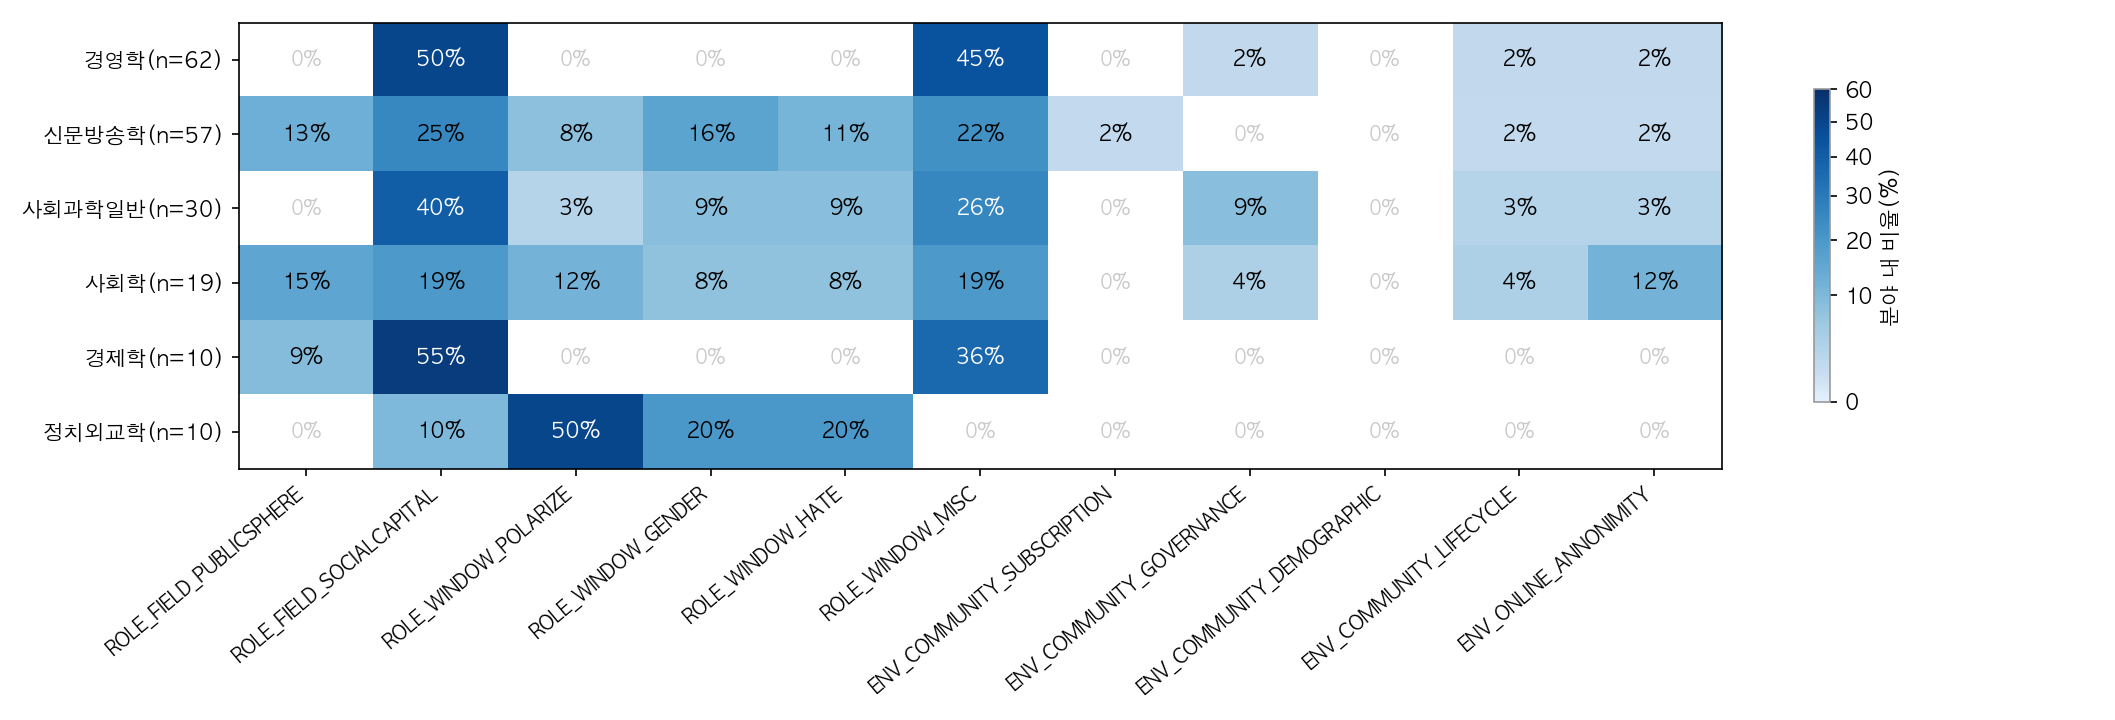
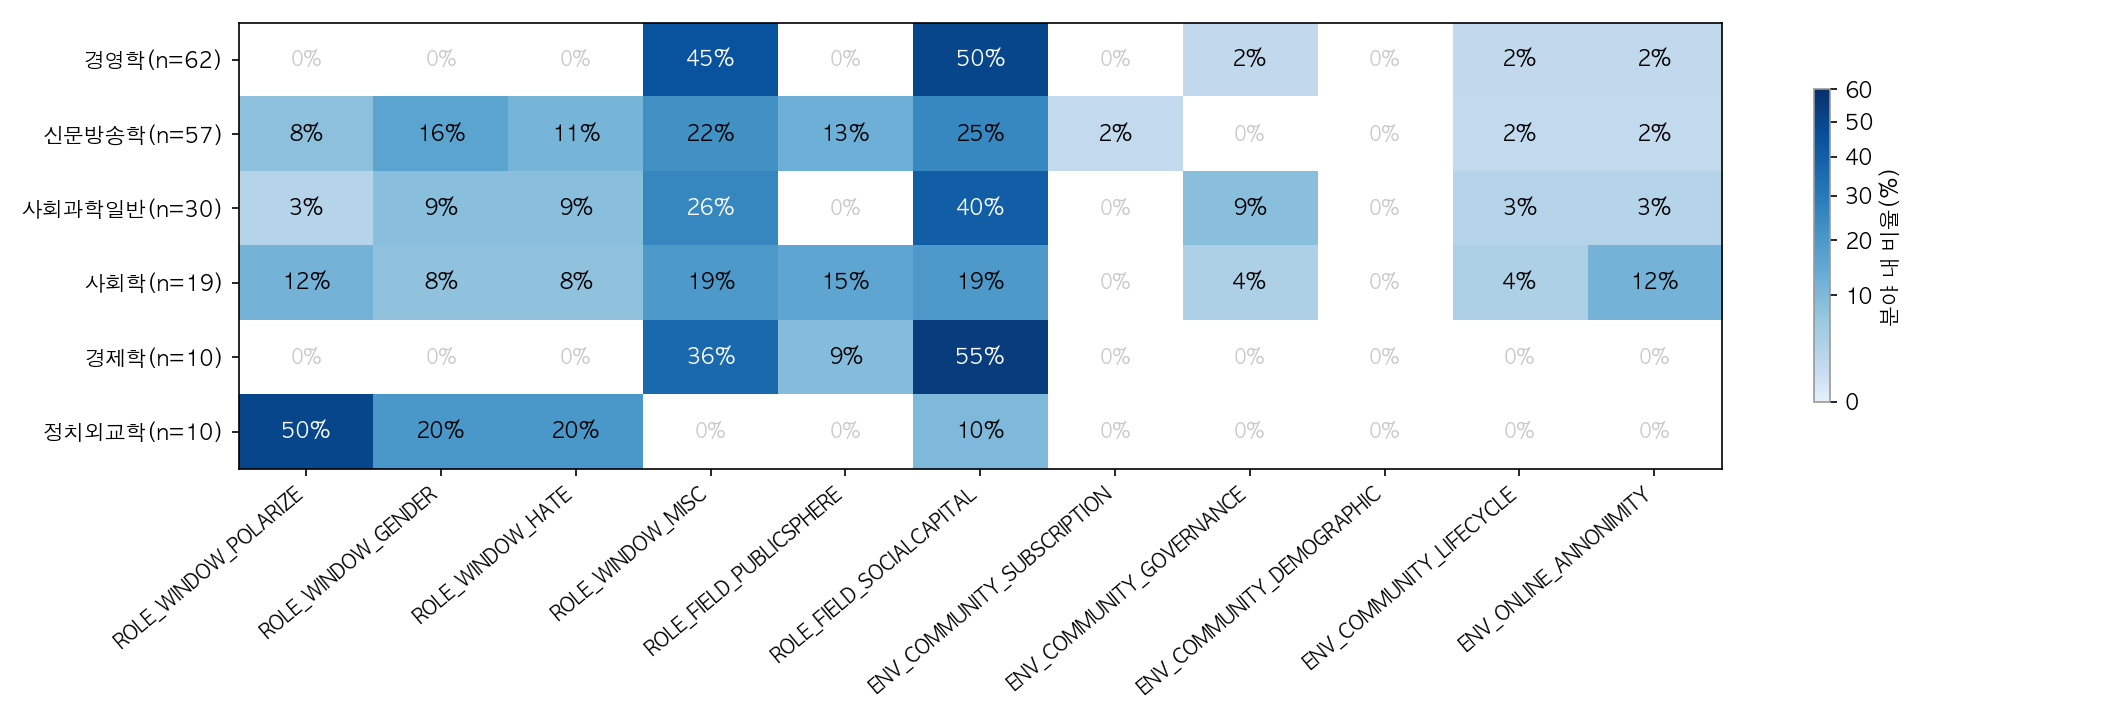
20261006

diff --git a/target_new/visualize_results.py b/target_new/visualize_results.py
@@ -714,8 +714,11 @@ def _field_code_table(df: pd.DataFrame, min_papers: int = 10) -> tuple[pd.DataFr
         order.append("기타")
     table = table.reindex(order).fillna(0).astype(int)
 
-    # 열 순서: ROLE_FIELD_* -> ROLE_WINDOW_* -> ENV_* 순으로 고정 (원래 11개 코드 정의 순서와 맞춤)
-    table = table.reindex(columns=ALL_CODES, fill_value=0)
+    # 히트맵 열 순서는 창(ROLE_WINDOW_*) -> 장(ROLE_FIELD_*) -> ENV_* (4b번 그룹 순서와 맞춤)
+    heatmap_order = [c for c in ALL_CODES if c.startswith("ROLE_WINDOW")] + [
+        c for c in ALL_CODES if not c.startswith("ROLE_WINDOW")
+    ]
+    table = table.reindex(columns=heatmap_order, fill_value=0)
 
     # min_papers: 히트맵에 개별 행으로 넣을 최소 문헌 수. 4b번은 작은 분야를 "그 외"로 합쳐서
     # 보여주므로 0으로 불러 모든 분야를 받은 뒤 직접 합친다
@@ -739,7 +742,7 @@ def chart4_field_all_codes_heatmap(df: pd.DataFrame) -> None:
 
 
 # 코드 이름 앞 두 단계로 묶은 그룹 - 4b번 히트맵 x축 순서
-CODE_GROUPS = ["ROLE_FIELD", "ROLE_WINDOW", "ENV_COMMUNITY", "ENV_ONLINE"]
+CODE_GROUPS = ["ROLE_WINDOW", "ROLE_FIELD", "ENV_COMMUNITY", "ENV_ONLINE"]  # 히트맵 열 순서: 창 -> 장 -> 환경
 
 # 4b번 히트맵 x축 틱 라벨 - 코드명 그대로가 아니라 "역할적/환경적 측면"이라는 상위 축 이름을
 # 위 줄에, 장/창/커뮤니티/온라인이라는 하위 구분을 아래 줄에 적는다
@@ -757,14 +760,17 @@ GOLDEN_XLSX = TARGET_DIR.parent / "full_golden.xlsx"
 GOLDEN_ROW_LABEL = "사회학"  # 패널 제목에 "사람 판정 (golden)"이 있어 행 이름엔 분야만
 
 
-def _golden_group_row() -> tuple[pd.DataFrame, pd.Series] | None:
-    """golden 엑셀을 코드 그룹(4개) 등장 횟수 1행 표와 논문 수로 만든다. 파일이 없으면 None."""
+def _load_golden() -> pd.DataFrame | None:
+    """golden 엑셀을 읽어 중복 논문을 뺀 라벨 행(한 줄 = 라벨 하나)을 돌려준다. paper 열이 논문 번호,
+    연도 열은 그 논문의 첫 줄 값으로 채운다. 파일이 없으면 None. 4b 히트맵과 12번 연도 그래프가 같은
+    56편을 쓰도록 공통으로 뺐다."""
     if not GOLDEN_XLSX.exists():
-        print(f"golden 파일 없음 - 4b 히트맵에 golden 행을 붙이지 않음: {GOLDEN_XLSX}")
+        print(f"golden 파일 없음 - golden 기반 그래프(4b 위 패널, 12번)를 건너뜀: {GOLDEN_XLSX}")
         return None
     golden = pd.read_excel(GOLDEN_XLSX)
     golden["paper"] = golden["논문명"].notna().cumsum()  # 논문명이 있는 줄마다 새 논문 시작
     golden["title"] = golden["논문명"].ffill().str.replace(r"\s+", "", regex=True)
+    golden["연도"] = golden["연도"].ffill()
 
     # 같은 논문이 2~3번 중복으로 들어 있는 경우가 있다(2026-10-01 기준 73건 중 14편이 중복, 라벨도
     # 동일). 그대로 세면 라벨이 많은 논문이 2~3배로 집계되므로 제목(공백 제거) 기준 첫 번째만 쓴다
@@ -773,13 +779,54 @@ def _golden_group_row() -> tuple[pd.DataFrame, pd.Series] | None:
     n_dup = golden["paper"].nunique() - deduped["paper"].nunique()
     if n_dup:
         print(f"golden: 중복 논문 {n_dup}건 제외 -> {deduped['paper'].nunique()}편")
+    return deduped
 
+
+def _golden_group_row() -> tuple[pd.DataFrame, pd.Series] | None:
+    """golden 라벨을 코드 그룹(4개) 등장 횟수 1행 표와 논문 수로 만든다. 파일이 없으면 None."""
+    deduped = _load_golden()
+    if deduped is None:
+        return None
     labels = deduped["Golden label"].dropna().str.strip()
     groups = labels.map(lambda code: "_".join(code.split("_")[:2]))
     row = groups.value_counts().reindex(CODE_GROUPS, fill_value=0)
     table = row.rename(GOLDEN_ROW_LABEL).to_frame().T
     n = pd.Series({GOLDEN_ROW_LABEL: int(deduped["paper"].nunique())})
     return table, n
+
+
+# 12번 그래프의 출간 연도 구간 - 5년 단위, 2004년부터(golden 최초 논문 연도)
+GOLDEN_PERIOD_BINS = [(2004, 2008), (2009, 2013), (2014, 2018), (2019, 2023), (2024, 2028)]
+
+
+def chart12_golden_sociology_period() -> None:
+    """12. 사람이 판정한 사회학 논문(golden, 중복 제거) 출간 연도별 문헌 수 - 단일 막대그래프.
+    4b 히트맵 위 패널과 같은 논문 집합이다. 스타일은 1·6·8번 시기별 막대그래프와 같다."""
+    deduped = _load_golden()
+    if deduped is None:
+        return
+    years = deduped.groupby("paper")["연도"].first().astype(int)
+    labels = [f"{start}~{end}" for start, end in GOLDEN_PERIOD_BINS]
+    counts = pd.Series(
+        [int(((years >= start) & (years <= end)).sum()) for start, end in GOLDEN_PERIOD_BINS], index=labels
+    )
+    outside = len(years) - counts.sum()
+    if outside:
+        print(f"경고: 12번 그래프 구간({GOLDEN_PERIOD_BINS[0][0]}~{GOLDEN_PERIOD_BINS[-1][1]}) 밖 논문 {outside}편은 빠짐")
+
+    fig, ax = plt.subplots(figsize=(9, 5))
+    bars = ax.bar(counts.index, counts.values, color=BAR_COLOR, width=0.6)
+    ax.bar_label(bars, padding=3, fontsize=13)
+
+    # 논문 그림으로 쓸 때 잘 보이게 축 제목·눈금 글씨를 기본(10)보다 키운다
+    ax.set_xlabel("발행 시기", fontsize=14)
+    ax.set_ylabel("논문 수", fontsize=14)
+    ax.tick_params(axis="both", labelsize=12)
+    plt.setp(ax.get_xticklabels(), rotation=30, ha="right")
+    ax.spines[["top", "right"]].set_visible(False)
+    fig.tight_layout()
+    fig.savefig(OUT_DIR / "12_사회학_사람판정_시기별_문헌수.png", dpi=150)
+    plt.close(fig)
 
 
 # 4b번 히트맵에서 따로 보여줄 주요 분야(이 순서대로 위에서부터) - 나머지는 "그 외" 한 행으로 합친다
@@ -818,7 +865,7 @@ def chart4b_field_code_group_heatmap(df: pd.DataFrame) -> None:
     if golden is not None:
         golden_table, golden_n = golden
         golden_table.columns = [CODE_GROUP_LABELS[group] for group in golden_table.columns]
-        reference = (golden_table, golden_n, "사람 판정 (golden)", "모델 판정")
+        reference = (golden_table, golden_n, "사람 판정", "LLM 분류기 판정")
 
     _draw_heatmap(
         rows,
@@ -1189,11 +1236,12 @@ def main() -> None:
     chart7_field_err_rate_bar(df)
     chart7_field_err_rate_bar(load_merged(excluded=True), "7c_화이트리스트_제외분야_ERR_비율.png")
     chart8_window_decade(df)
+    chart12_golden_sociology_period()
     chart9_all_codes_count_bar(df)
     chart10_field_distance_heatmap(df)
     chart11_field_distance_map(df)
 
-    print(f"완료 - {OUT_DIR} 아래 17개 PNG(+합본·압축본 PDF) 생성됨")
+    print(f"완료 - {OUT_DIR} 아래 18개 PNG(+합본·압축본 PDF) 생성됨")
 
 
 if __name__ == "__main__":
